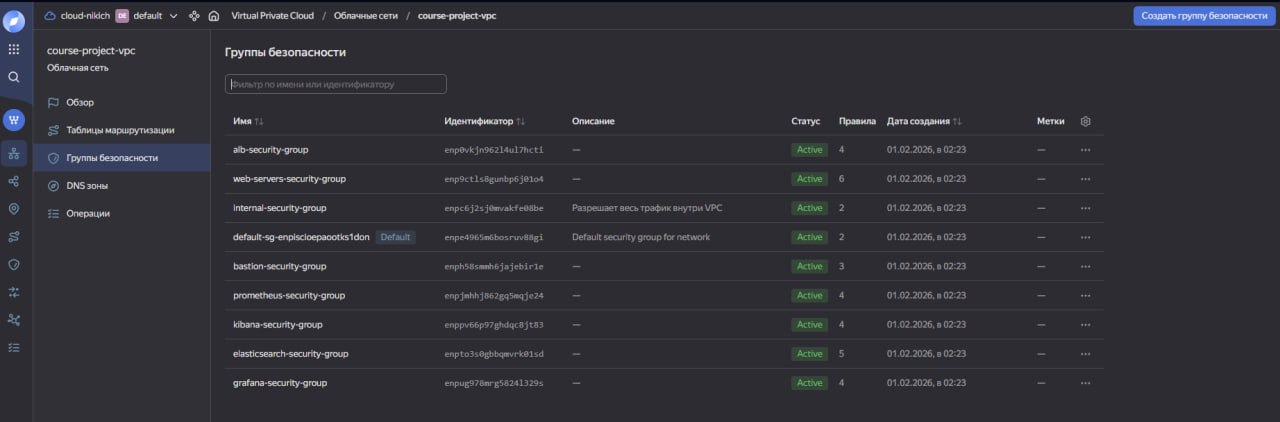
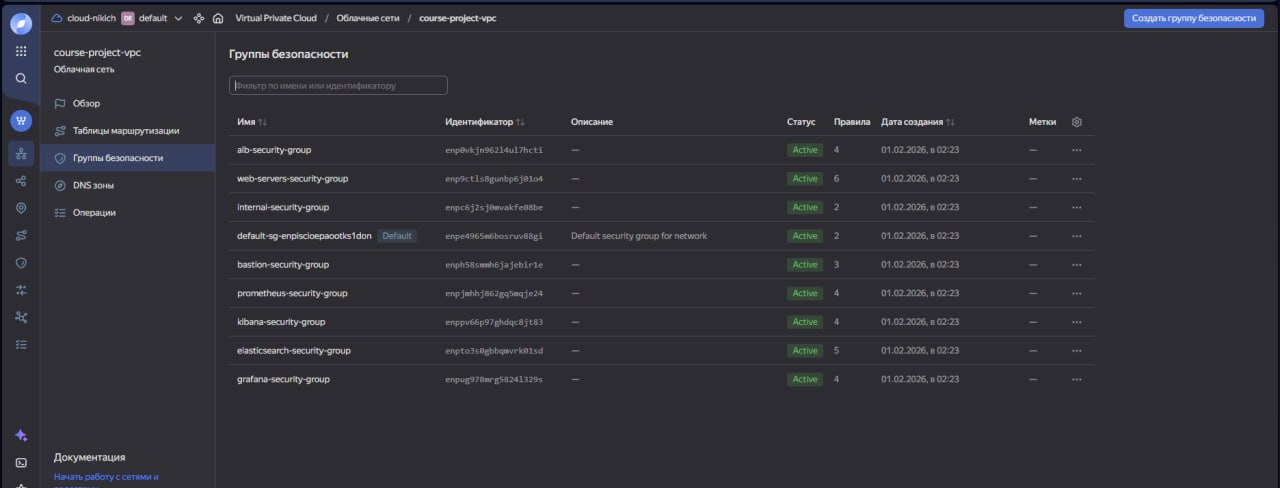
first commit

diff --git a/README.md b/README.md
@@ -162,6 +162,40 @@ ansible-playbook -i inventory.ini install_filebeat.yml
 **Процесс применения плейбука install_filebeat.yml**:
 ![Процесс применения плейбука install_filebeat.yml](https://github.com/Nikich828/coursework/blob/main/10.jpeg)
 
+Заходим на yandex.cloud и проверяем результат поднятия инфраструктуры:
+
+**Проверка ВМ**:
+![ВМ](https://github.com/Nikich828/coursework/blob/main/30.jpeg)
+
+Проверим сеть, должен быть развернут один VPC. Webservers,elasticsearch в приватной подсети, а prometheus, grafana, kibana и alb в публичной.
+
+**Проверка сети**:
+![Сеть](https://github.com/Nikich828/coursework/blob/main/31.jpeg)
+![VPC](https://github.com/Nikich828/coursework/blob/main/24.jpeg)
+
+Проверим Target Group, Backend Group, HTTP router, Application load balancer:
+
+**Проверка Target Group, Backend Group, HTTP router, Application load balancer**:
+![Сеть](https://github.com/Nikich828/coursework/blob/main/19.jpeg)
+![VPC](https://github.com/Nikich828/coursework/blob/main/20.jpeg)
+![VPC](https://github.com/Nikich828/coursework/blob/main/21.jpeg)
+![VPC](https://github.com/Nikich828/coursework/blob/main/22.jpeg)
+![VPC](https://github.com/Nikich828/coursework/blob/main/23.jpeg)
+
+
+Теперь группы безопастности и балансировщик:
+
+**Проверка групп безопастности**:
+![Сеть](https://github.com/Nikich828/coursework/blob/main/25.jpeg)
+
+**Проверка балансировщика**:
+![Сеть](https://github.com/Nikich828/coursework/blob/main/29.jpeg)
+
+Перейдем по публичному адресу балансировщика **[Курсовая работа](http://84.201.170.18)**:
+
+**Сайт курсовая работа**:
+![Курсовая работа](https://github.com/Nikich828/coursework/blob/main/13.jpeg)
+
 Проверим доступ к grafana и проверим работу дашборда по ссылке **[Grafana](http://84.252.137.244:3000)**:
 
 **Проверка доступа к Grafana и работы дашборда**:
@@ -169,3 +203,16 @@ ansible-playbook -i inventory.ini install_filebeat.yml
 ![Дашборд](https://github.com/Nikich828/coursework/blob/main/12.jpeg)
 ![Дашборд](https://github.com/Nikich828/coursework/blob/main/28.jpeg)
 
+
+Проверим работу ELK, для этого перейдем по ссылке **[Kibana](http://89.169.166.148:5601/app/home#/)**
+
+**Проверяем работу ELK**:
+![Курсовая работа](https://github.com/Nikich828/coursework/blob/main/15.jpeg)
+![Курсовая работа](https://github.com/Nikich828/coursework/blob/main/27.jpeg)
+
+
+Теперь проверим снапшоты:
+
+**Проверяем работу snapshot**:
+![Курсовая работа](https://github.com/Nikich828/coursework/blob/main/26.jpeg)
+![Курсовая работа](https://github.com/Nikich828/coursework/blob/main/32.jpeg)
